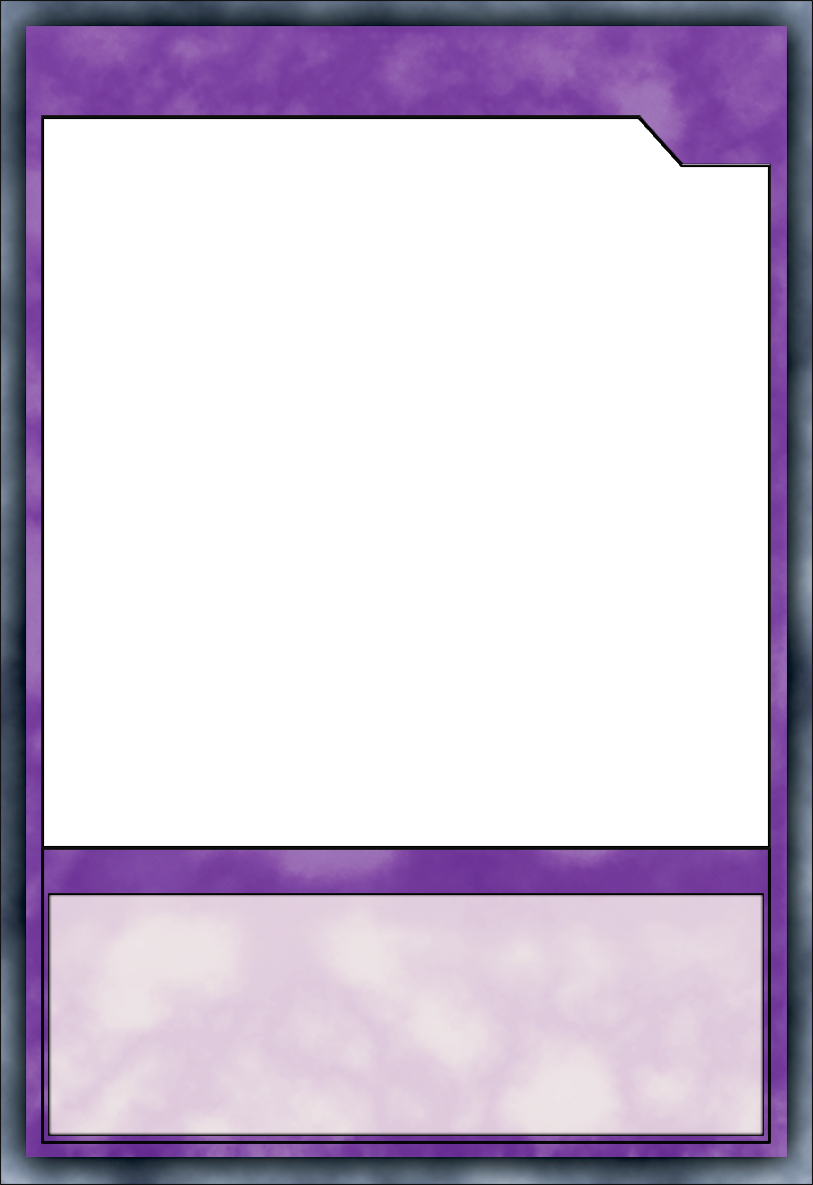
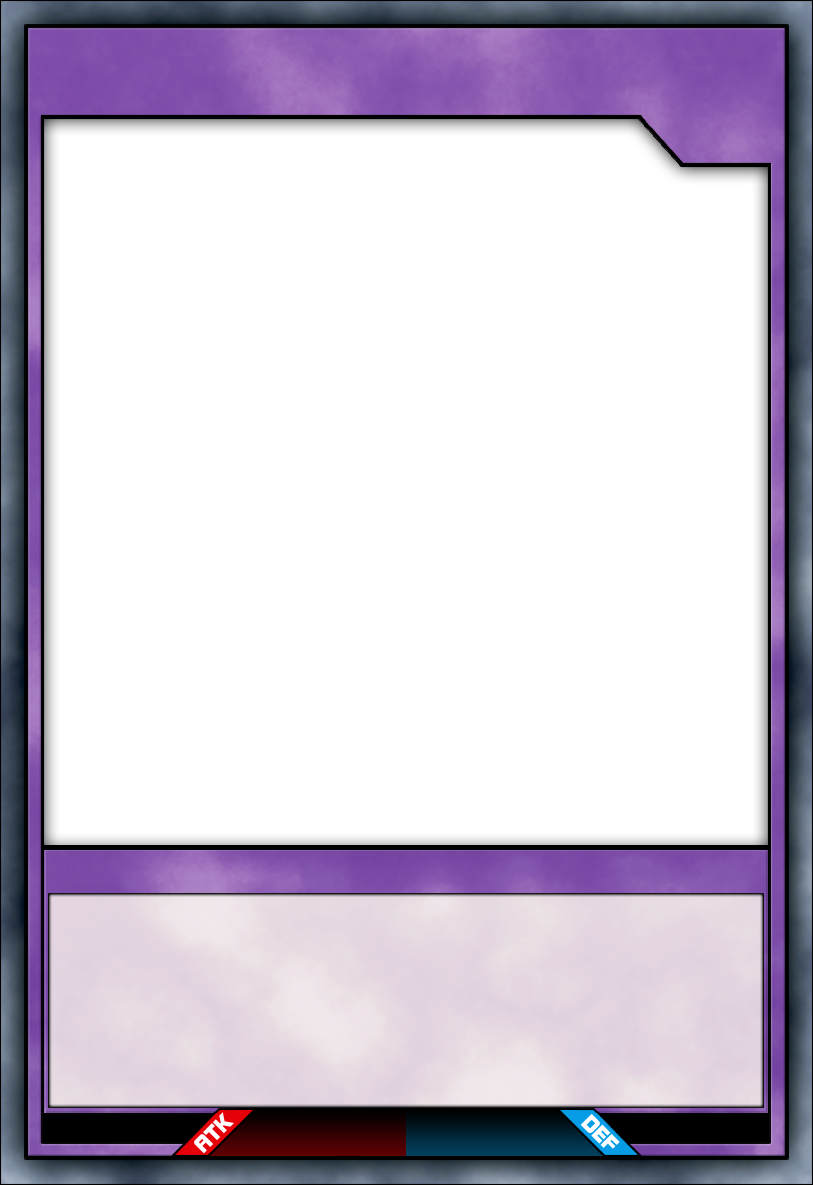
Finalised new card layout

Changed region(s): [[0.0308, 0.0, 0.984, 0.9992], [0.3383, 0.8118, 0.3998, 0.8743], [0.4305, 0.843, 0.4613, 0.8743]]

diff --git a/src/components/CardView/Card.css b/src/components/CardView/Card.css
@@ -58,13 +58,12 @@
   font-size: 28px;
   font-family: "Yu-Gi-Oh! Matrix Book";
   color: rgba(0, 0, 0, 0.969);
-  line-height: 1;
   text-align: justify;
   position: absolute;
-  left: 55.52px;
-  top: 901.38px;
-  width: 701.23px;
-  height: 240px;
+  left: 54px;
+  top: 898px;
+  width: 703px;
+  height: 200px;
   z-index: 24;
 }
 .level5 {
@@ -129,13 +128,12 @@
   font-size: 28px;
   font-family: "Yu-Gi-Oh! Matrix Book";
   color: rgba(0, 0, 0, 0.969);
-  line-height: 1;
   text-align: justify;
   position: absolute;
-  left: 55.52px;
-  top: 901.38px;
-  width: 701.23px;
-  height: 240px;
+  left: 54px;
+  top: 898px;
+  width: 703px;
+  height: 200px;
   z-index: 24;
 }
 .flavourText {
@@ -143,38 +141,13 @@
   font-family: "Yu-Gi-Oh! StoneSerif LT";
   color: rgba(0, 0, 0, 0.969);
   font-style: italic;
-  line-height: 1;
   text-align: justify;
   position: absolute;
-  left: 55.52px;
-  top: 901.38px;
-  width: 701.23px;
-  height: 240px;
+  left: 54px;
+  top: 898px;
+  width: 703px;
+  height: 200px;
   z-index: 24;
-}
-.atkLabel {
-  position: absolute;
-  left: 170px;
-  top: 1097px;
-  width: 110px;
-  height: 32px;
-  z-index: 18;
-}
-.defLabel {
-  position: absolute;
-  left: 425px;
-  top: 1097px;
-  width: 110px;
-  height: 32px;
-  z-index: 17;
-}
-.atkDefLabels {
-  position: absolute;
-  left: 104px;
-  top: 696px;
-  width: 664px;
-  height: 152px;
-  z-index: 14;
 }
 .atkValue {
   font-size: 36px;
@@ -184,9 +157,9 @@
   line-height: 1;
   text-align: right;
   position: absolute;
-  left: 287px;
-  top: 800px;
-  width: 139.5px;
+  left: 252.47px;
+  top: 1115px;
+  width: 138.19px;
   height: 45px;
   z-index: 16;
 }
@@ -198,19 +171,19 @@
   line-height: 1;
   text-align: right;
   position: absolute;
-  left: 544px;
-  top: 800px;
-  width: 139.5px;
+  left: 417.8px;
+  top: 1115px;
+  width: 138.19px;
   height: 45px;
   z-index: 15;
 }
 .artwork {
   position: absolute;
-  left: 42px;
-  top: 116px;
-  width: 728px;
-  height: 733px;
-  z-index: 3;
+  left: 0px;
+  top: 80px;
+  width: 813px;
+  height: 813px;
+  z-index: 1
 }
 .frame {
   position: absolute;

diff --git a/src/components/CardView/Card.tsx b/src/components/CardView/Card.tsx
@@ -27,7 +27,7 @@ const NAME_MAX_WIDTH = 680 - NAME_LEFT - 8;
 // base font-size and box height — the same shrink range works for both,
 // since a card is only ever one or the other.
 const EFFECT_MAX_FONT_SIZE = 28;
-const EFFECT_MIN_FONT_SIZE = 16;
+const EFFECT_MIN_FONT_SIZE = 18;
 
 function Card({ card }: CardProps) {
   const isMonster = card.cardClass === 'Monster';

diff --git a/src/components/CardBrowser/CardBrowser.tsx b/src/components/CardBrowser/CardBrowser.tsx
@@ -21,7 +21,7 @@ import './CardBrowser.css';
 // agree with each other.
 const CARD_WIDTH = 813;
 const CARD_HEIGHT = 1185;
-const SCALE = 0.5;
+const SCALE = 0.3;
 
 const COLUMNS = 5;
 const ROWS_PER_PAGE = 5;
